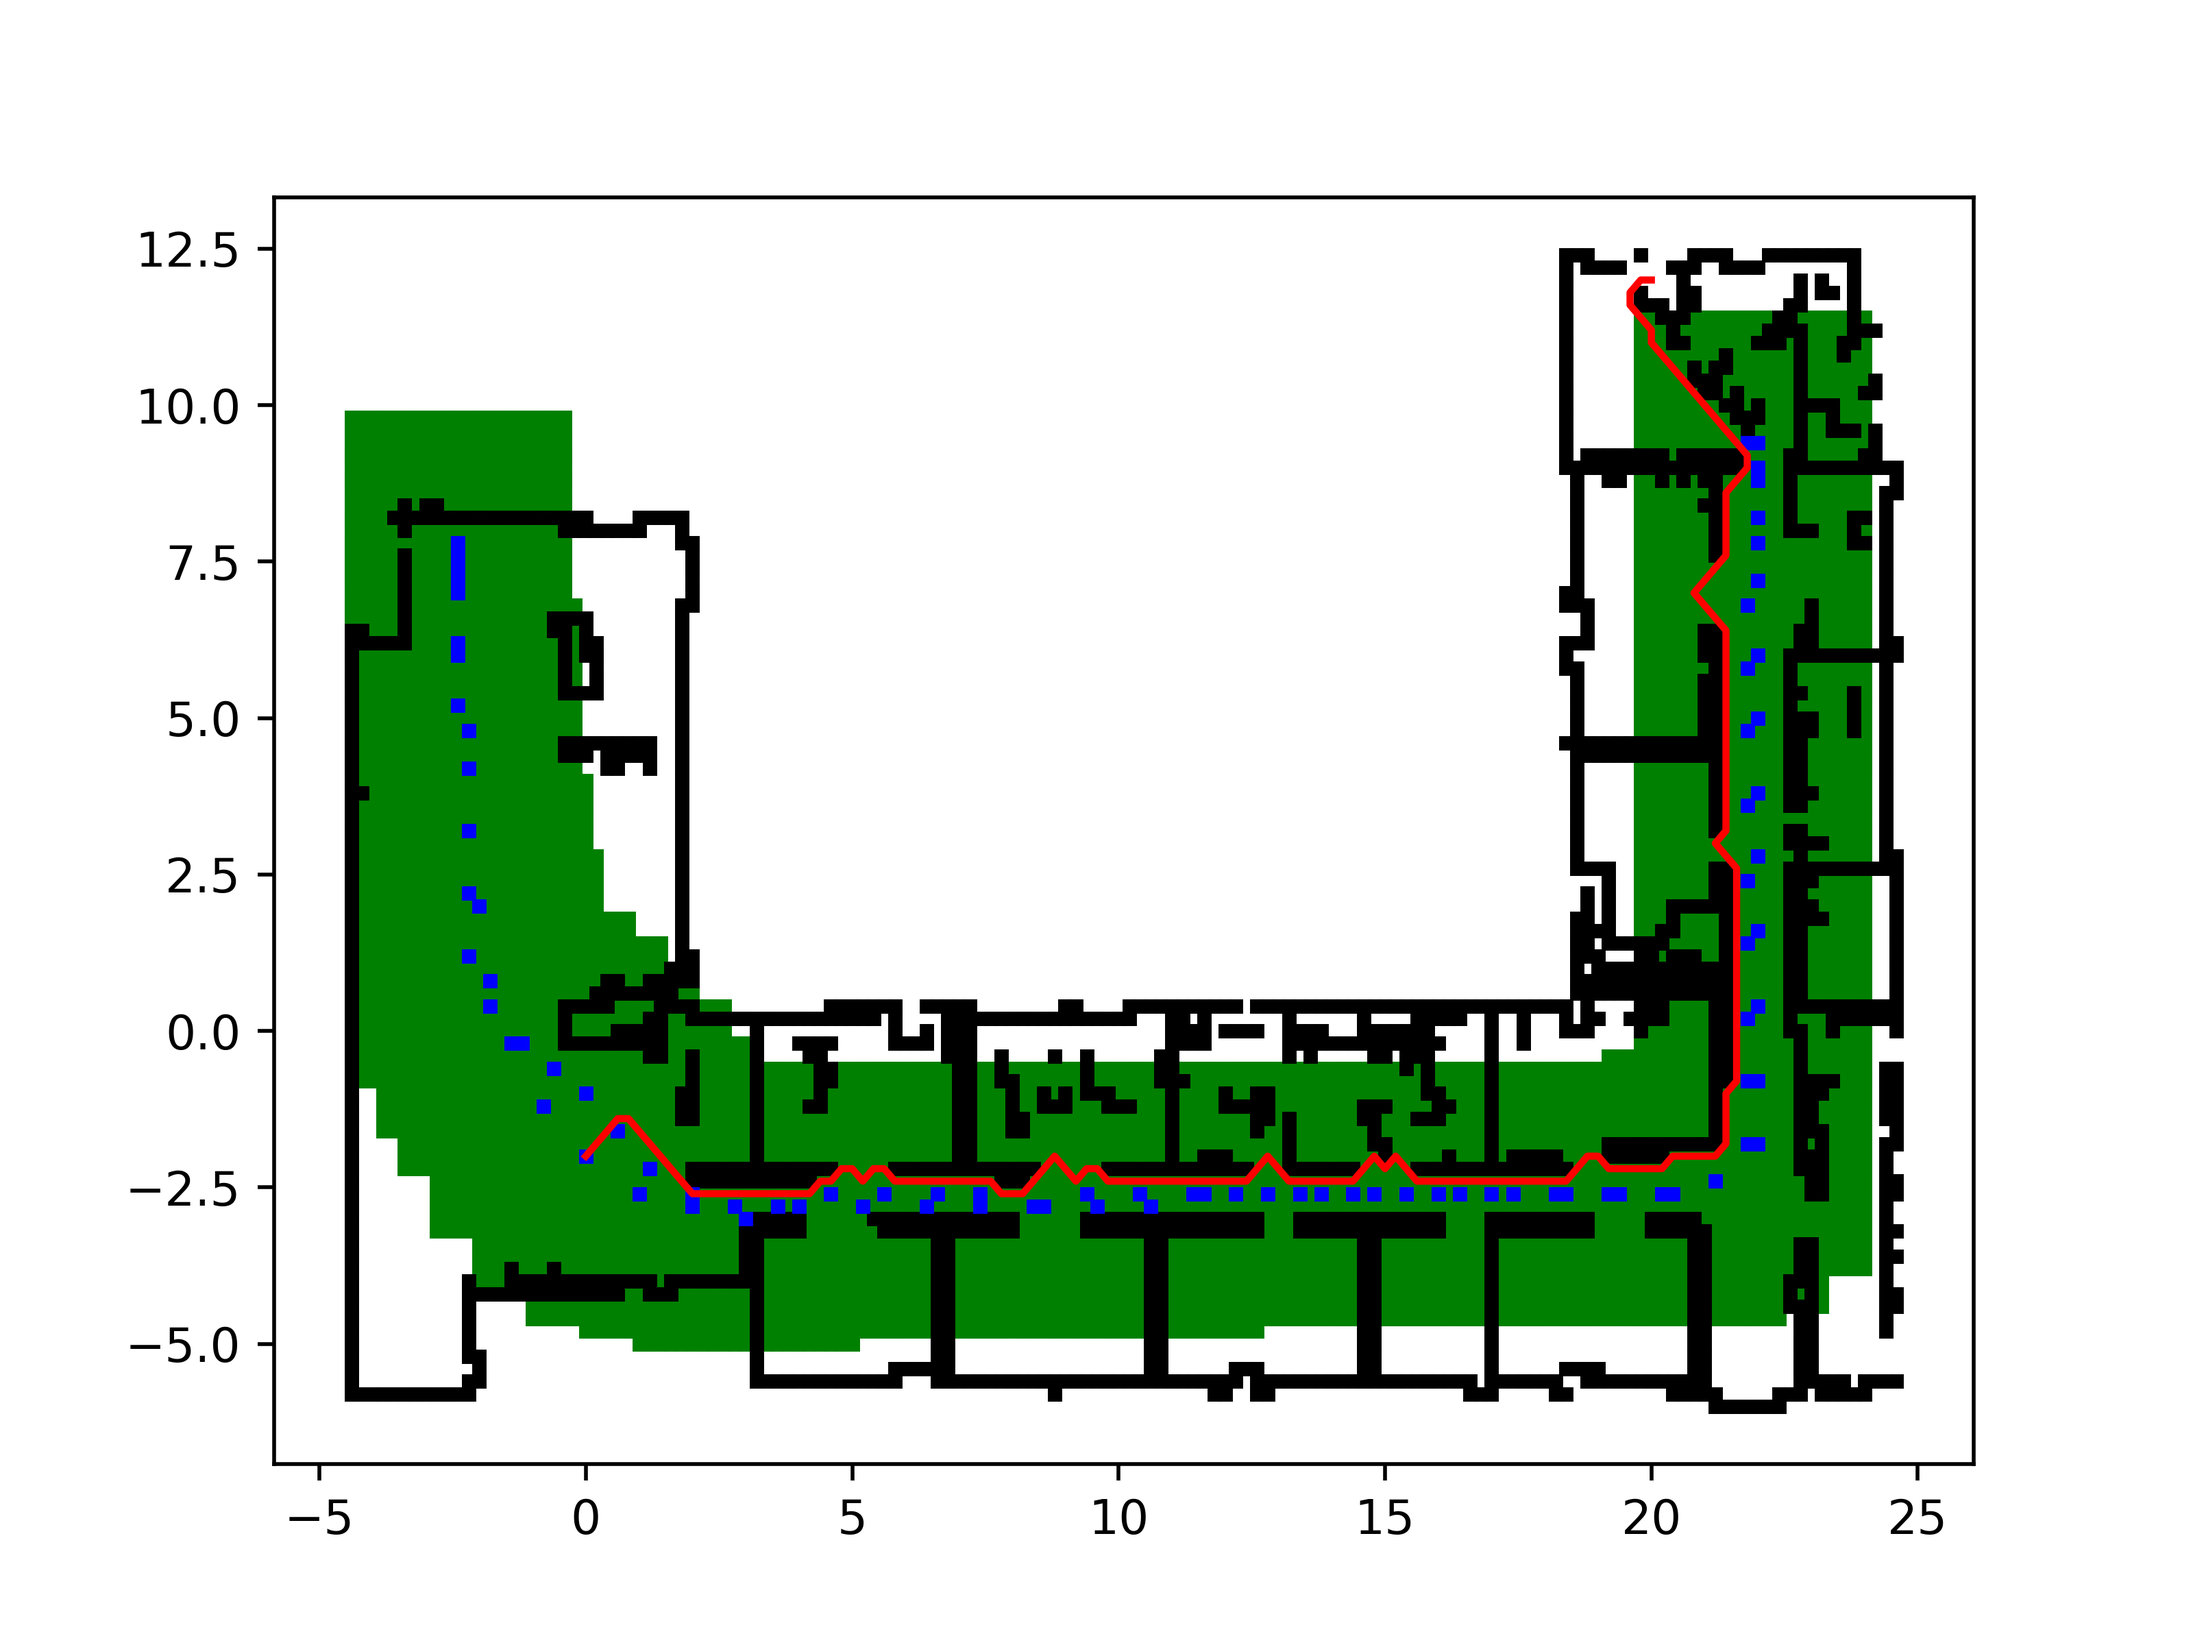
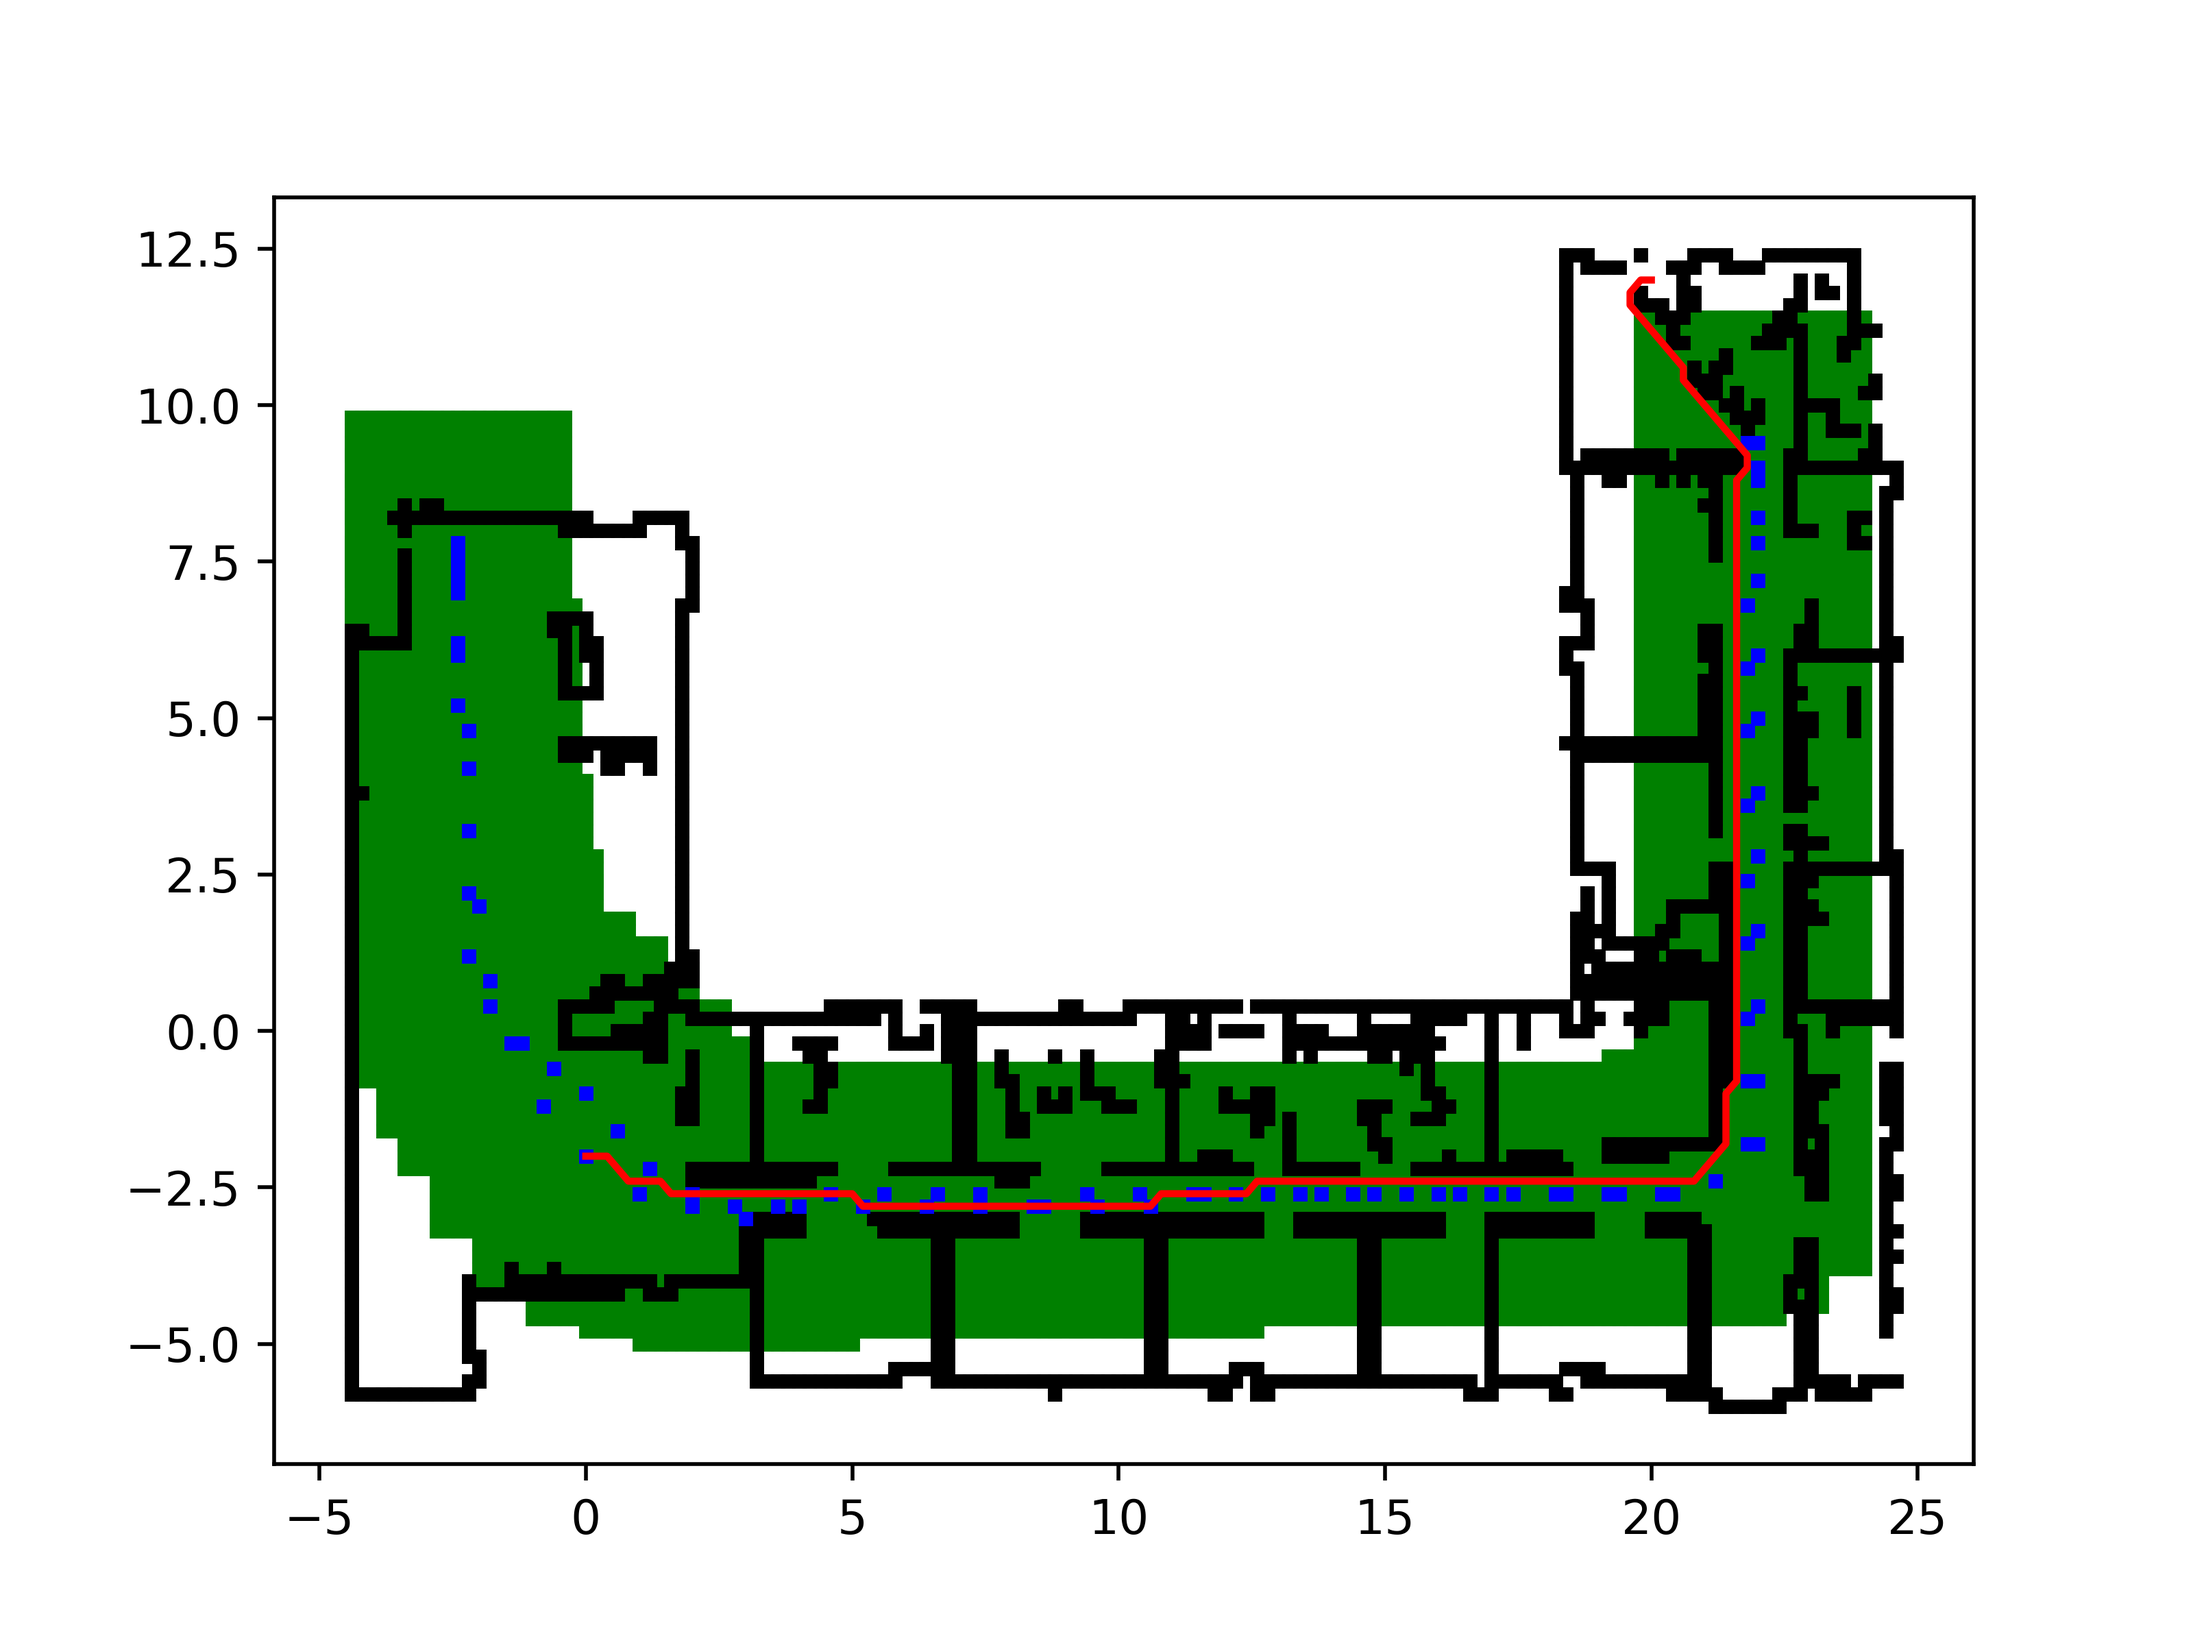
Updated images with new weighted paths

diff --git a/server/mapping/world.py b/server/mapping/world.py
@@ -146,7 +146,7 @@ def test_boundary_aware_bloom():
 
 	plt.show()
 
-def test_map_explore_area():
+def test_map_explore_area(user_locations_filename, destination_plot_filename):
 	plt.rcParams['figure.dpi'] = 500
 	plt.rcParams['savefig.dpi'] = 500
 
@@ -156,7 +156,7 @@ def test_map_explore_area():
 
 	print("Updating user locations...")
 	#floor.update_user_loations_from_csv("samples\\direct-route.csv")
-	floor.update_user_loations_from_csv("samples\\rh-search.csv")
+	floor.update_user_loations_from_csv(user_locations_filename)
 	#print([p for p in floor.user_locations])
 	
 	print("Naive bloom...")
@@ -164,7 +164,7 @@ def test_map_explore_area():
 
 	print("Calculating path...")
 	path = floor.calculatePath((0, -2), (20, 12))
-	print(path)
+	#print(path)
 
 	weights = floor.explored_area
 	plt.plot([box[0] for box in weights], [box[1] for box in weights],
@@ -181,7 +181,13 @@ def test_map_explore_area():
 	plt.plot([p[0] for p in path], [p[1] for p in path], "r-")
 
 	#plt.show()
-	plt.savefig("images\\weighted_search_rh_search.png")
+	#plt.savefig("images\\weighted_search_rh_search.png")
+	plt.savefig(destination_plot_filename)
+
+def generate_images():
+	test_map_explore_area("samples\\direct-route.csv", "images\\weighted_search_direct_route.png")
+	test_map_explore_area("samples\\rh-search.csv", "images\\weighted_search_rh_search.png")
+	test_map_explore_area("samples\\lh-search.csv", "images\\weighted_search_lh_search.png")
 
 def test_easy_explore_area():
 	floor = Floor(1)
@@ -246,4 +252,4 @@ def test_walls_locations_path():
 	plt.show()
 
 if __name__ == "__main__":
-	test_map_explore_area()
+	generate_images()
